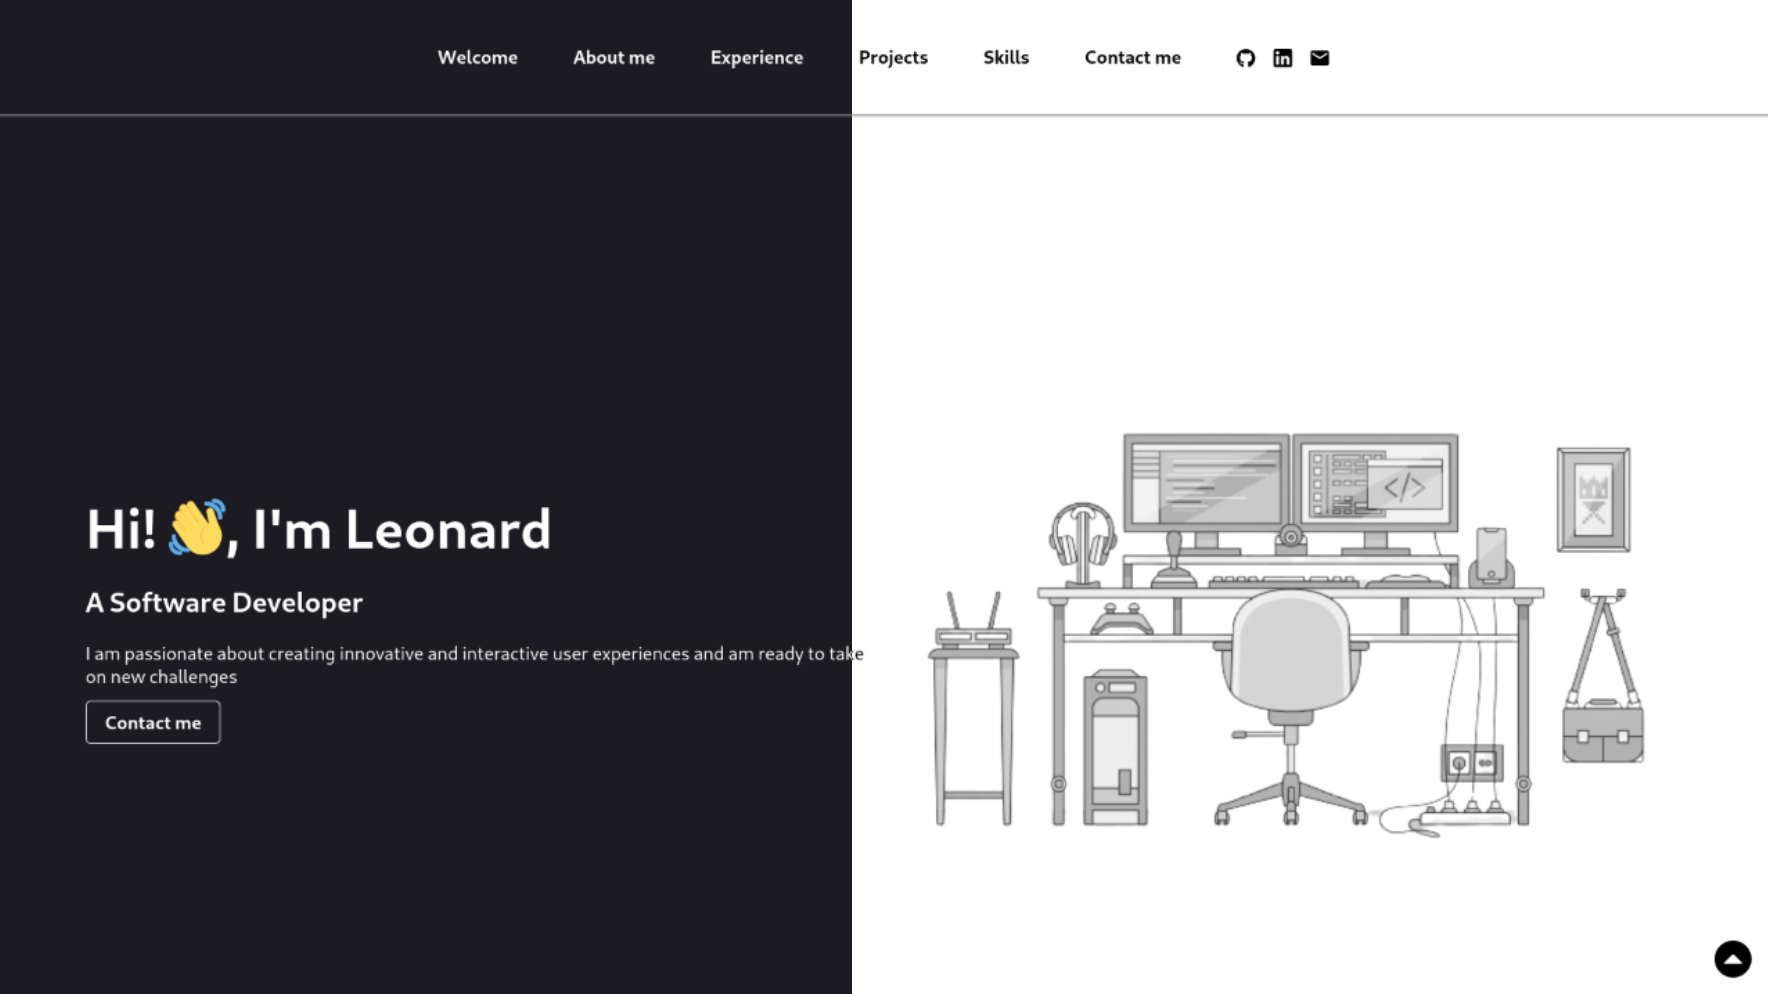
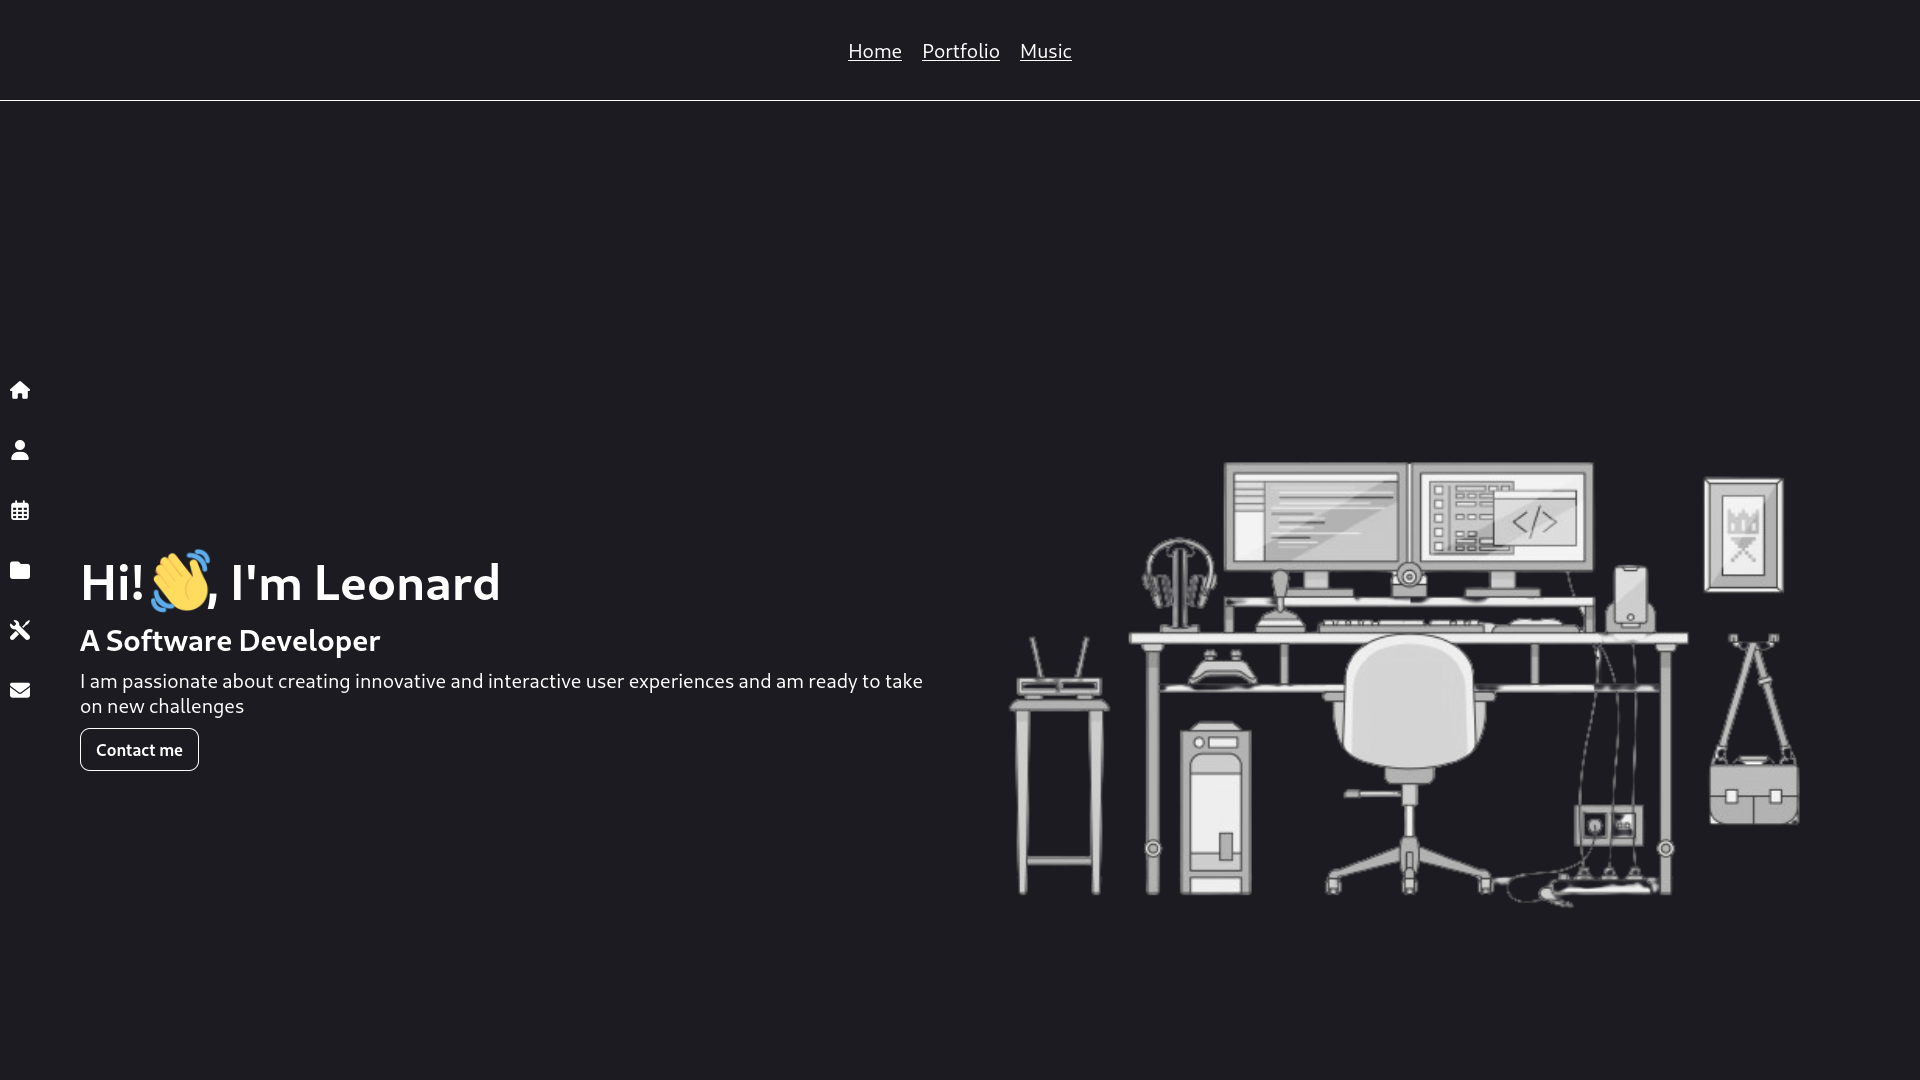
Finished Dev Portfolio

diff --git a/static/css/portfolio.css b/static/css/portfolio.css
@@ -12,17 +12,13 @@
   transition: 0.75s;
 }
 
-.side-nav {
+.portfolio .side-nav {
   background-color: var(--bg-color);
   transform: translate(-200px);
   transition: 0.75s;
 }
 
-.side-nav__hover {
-  position: absolute;
-}
-
-.nav-btn {
+.portfolio .nav-btn {
   padding: 0.5rem;
   font-size: 1rem;
   background: none;
@@ -30,16 +26,67 @@
   border-radius: 0.25rem;
 }
 
-.project {
+.portfolio .nav-btn:hover,
+.portfolio .nav-btn:focus {
+  background-color: var(--font-color);
+}
+
+.portfolio__title {
+  font-size: 2.5rem;
+}
+
+.portfolio__subtitle {
+  font-size: 1.5rem;
+}
+
+.portfolio .welcome__wave {
+  display: inline-block;
+  animation: wave 2s infinite;
+}
+
+@keyframes wave {
+  0% {
+    transform: rotate(0deg);
+  }
+  10% {
+    transform: rotate(14deg);
+  }
+  20% {
+    transform: rotate(-8deg);
+  }
+  30% {
+    transform: rotate(14deg);
+  }
+  40% {
+    transform: rotate(-4deg);
+  }
+  50% {
+    scale: 1.2;
+    transform: rotate(10deg);
+  }
+  60% {
+    transform: rotate(-4deg);
+  }
+  100% {
+    scale: 1;
+    transform: rotate(0deg);
+  }
+}
+
+.portfolio .welcome__image {
+  filter: grayscale(100%);
+}
+
+.portfolio .project {
   position: relative;
   border: solid 1px var(--font-color);
   color: var(--font-color-inverse);
   border-radius: 0.5rem;
-  width: min(25rem, 65vw);
+  width: min(25rem, 82.5vw);
   overflow: clip;
 }
 
-.project__info {
+.portfolio .project__info {
   scale: 0;
   position: absolute;
   top: 0;
@@ -49,17 +96,17 @@
   transition: 0.5s;
 }
 
-.project:hover .project__info,
-.project:focus-within .project__info {
+.portfolio .project:hover .project__info,
+.portfolio .project:focus-within .project__info {
   scale: 1;
   transition: 0.5s;
 }
 
-.project__desc {
+.portfolio .project__desc {
   text-align: center;
 }
 
-.project__link {
+.portfolio .project__link {
   font-size: 1.5rem;
   padding: 0.5rem;
   background-color: var(--font-color-inverse);
@@ -69,13 +116,13 @@
   transition: 0.25s;
 }
 
-.project__link:hover,
-.project__link:focus {
+.portfolio .project__link:hover,
+.portfolio .project__link:focus {
   scale: 1.15;
   transition: 0.25s;
 }
 
-.skills__skill {
+.portfolio .skills__skill {
   width: 100%;
   max-width: 20rem;
   height: 15rem;
@@ -83,17 +130,22 @@
   border-radius: 0.75rem;
   transition: 0.25s;
 }
-.skills__skill:hover {
+.portfolio .skills__skill:hover {
   background-color: var(--font-color);
   color: var(--font-color-inverse);
   transition: 0.25s;
 }
 
-.skills__skill .skill__icon {
+.portfolio .skill__icon {
   font-size: 6rem;
 }
 
-.contact__link {
+.portfolio .contact__message {
+  resize: none;
+  height: 25vh;
+}
+
+.portfolio .contact__link {
   padding: 0.5rem;
   border-radius: 0.25rem;
   text-decoration: none;

diff --git a/static/css/utility.css b/static/css/utility.css
@@ -5,6 +5,63 @@
   --border-radius-large: 4rem;
 }
 
+.bold {
+  font-weight: 700;
+}
+
+.input {
+  background-color: transparent;
+  border: solid 1px var(--font-color);
+  border-radius: var(--border-radius-extra-small);
+  padding: 0.5rem 0.75rem;
+}
+
+.input[data-inverse] {
+  background-color: var(--font-color);
+  color: var(--font-color-inverse);
+}
+
+.btn {
+  font-weight: 700;
+  transition: 0.2s;
+}
+
+.btn[data-fit] {
+  width: fit-content;
+}
+
+.no-decoration {
+  text-decoration: none;
+}
+
+.btn[data-clicked] {
+  background-color: var(--font-color);
+  color: var(--font-color-inverse);
+}
+.btn-fit[data-clicked] {
+  background-color: var(--font-color);
+  color: var(--font-color-inverse);
+}
+
+.btn:hover,
+.btn:focus {
+  background-color: var(--font-color);
+  color: var(--font-color-inverse);
+}
+
+.btn-danger {
+  background-color: red;
+  color: white;
+  border: none;
+  font-weight: 700;
+  transition: 0.2s;
+}
+
+.btn-danger:hover,
+.btn-danger:focus {
+  box-shadow: 0 0 5px 1px red;
+}
+
 .visible {
   display: block;
 }
@@ -124,6 +181,26 @@
 
 .sticky {
   position: sticky;
+}
+
+.relative {
+  position: relative;
+}
+
+.top-0 {
+  top: 0;
+}
+
+.bottom-0 {
+  bottom: 0;
+}
+
+.left-0 {
+  left: 0;
+}
+
+.right-0 {
+  right: 0;
 }
 
 .gap-xs {
@@ -263,57 +340,4 @@
 }
 .radius-max {
   border-radius: 9999px;
-}
-
-.input {
-  background-color: transparent;
-  border: solid 1px var(--font-color);
-  border-radius: var(--border-radius-extra-small);
-  padding: 0.5rem 0.75rem;
-}
-
-.bold {
-  font-weight: 700;
-}
-
-.btn {
-  font-weight: 700;
-  transition: 0.2s;
-}
-.btn-fit {
-  font-weight: 700;
-  transition: 0.2s;
-  width: fit-content;
-}
-
-.no-decoration {
-  text-decoration: none;
-}
-
-.btn[data-clicked] {
-  background-color: var(--font-color);
-  color: var(--font-color-inverse);
-}
-.btn-fit[data-clicked] {
-  background-color: var(--font-color);
-  color: var(--font-color-inverse);
-}
-
-.btn:hover,
-.btn:focus {
-  background-color: var(--font-color);
-  color: var(--font-color-inverse);
-}
-
-.btn-danger {
-  background-color: red;
-  color: white;
-  border: none;
-  font-weight: 700;
-  transition: 0.2s;
-}
-
-.btn-danger:hover,
-.btn-danger:focus {
-  box-shadow: 0 0 5px 1px red;
 }

diff --git a/static/css/index.css b/static/css/index.css
@@ -4,3 +4,32 @@
   box-shadow: 0 0 0 1px var(--font-color);
   z-index: 1;
 }
+
+.to-top {
+  width: 2rem;
+  height: 2rem;
+  font-size: 1rem;
+  position: fixed;
+  right: 3vw;
+  bottom: 4vh;
+  z-index: 1;
+  animation: disappear;
+  animation-timeline: scroll();
+}
+
+@keyframes disappear {
+  0% {
+    scale: 0;
+  }
+  20% {
+    scale: 0;
+  }
+  30% {
+    scale: 1;
+  }
+}
+
+.to-top:hover,
+.to-top:focus {
+  box-shadow: 0 0 5px 3px var(--font-color);
+}
